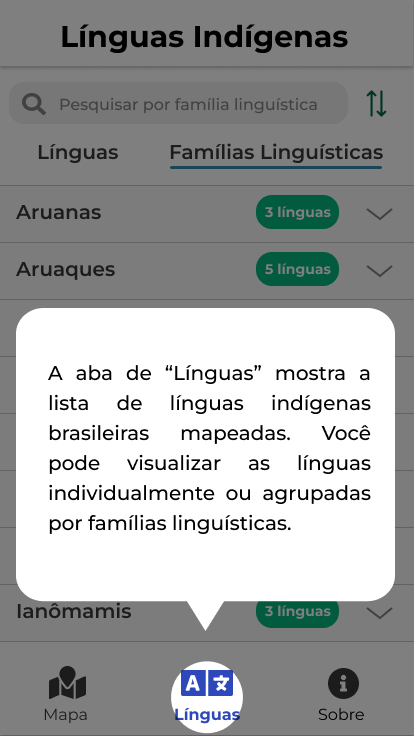
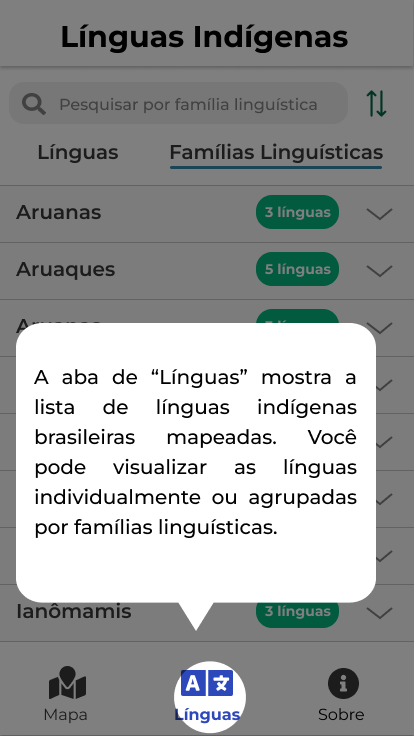
Link onboarding at settings

diff --git a/project/src/components/OnBoarding/index.jsx b/project/src/components/OnBoarding/index.jsx
@@ -1,20 +1,36 @@
 import React, { useRef, useState, useEffect } from 'react'
-import { View, Text, StatusBar, TouchableOpacity, FlatList, Dimensions, useColorScheme } from 'react-native'
+import { View, Text, StatusBar, TouchableOpacity, FlatList, Dimensions, useColorScheme, Image } from 'react-native'
 import { SafeAreaView } from 'react-native-safe-area-context';
 import AntDesignIcons from 'react-native-vector-icons/AntDesign';
+import { stepZero, stepOne, stepTwo, stepThree, stepFour } from '../../assets/images';
 
-export function OnBoarding({ data, buttonBackgroundColor = '', dotBackgroundColor = '', onFinish, buttonIconColor = '' }) {
+export function OnBoarding({ buttonBackgroundColor = '', dotBackgroundColor = '', onFinish, buttonIconColor = '' }) {
+  const data = [
+    {
+      _id: '0',
+      image: <Image source={stepZero} />
+    },
+    {
+      _id: '1',
+      image: <Image source={stepOne} />
+    },
+    {
+      _id: '2',
+      image: <Image source={stepTwo} />
+    },
+    {
+      _id: '3',
+      image: <Image source={stepThree} />
+    },
+    {
+      _id: '4',
+      image: <Image source={stepFour} />
+    },
+  ]
 
   const { width, height } = Dimensions.get('window');
 
   const colorScheme = useColorScheme()
-
-  const COLORS = {
-    primary: buttonBackgroundColor ? buttonBackgroundColor : "red",
-    background: colorScheme == 'dark' ? '#171717' : "#FFFFFF",
-    text: colorScheme == 'dark' ? '#FFFF' : "#171717",
-    dotBgColor: dotBackgroundColor ? dotBackgroundColor : "red"
-  }
 
   const SIZES = {
     base: 10,
@@ -45,17 +61,6 @@ export function OnBoarding({ data, buttonBackgroundColor = '', dotBackgroundColo
     flatlistRef.current.scrollToIndex({
       animated: true,
       index: currentPage + 1
-    })
-  }
-
-  const handleBack = () => {
-    if (currentPage == 0) {
-      return;
-    }
-
-    flatlistRef.current.scrollToIndex({
-      animated: true,
-      index: currentPage - 1
     })
   }
 
@@ -140,11 +145,9 @@ export function OnBoarding({ data, buttonBackgroundColor = '', dotBackgroundColo
                   fontSize: 18,
                   marginLeft: SIZES.base
                 }}>Finalizar</Text>
-                <AntDesignIcons name="right"
-                  style={{ fontSize: 18, color: 'white', opacity: 0.3, marginLeft: SIZES.base }} />
                 <AntDesignIcons
                   name="right"
-                  style={{ fontSize: 25, color: 'white', marginLeft: -15 }}
+                  style={{ fontSize: 25, color: 'white'}}
                 />
               </TouchableOpacity>
             )
@@ -160,14 +163,15 @@ export function OnBoarding({ data, buttonBackgroundColor = '', dotBackgroundColo
       <View style={{
         width: SIZES.width,
         flex: 1,
-        alignItems: 'center',
+        alignItems: 'flex-start',
         justifyContent: 'center',
         height: '100%'
       }}
       >
         <View style={{
           alignItems: 'center',
-          marginVertical: SIZES.base * 2
+          // width: '100%'
+          // marginVertical: SIZES.base * 2
         }}>
           {item.image}
         </View>

diff --git a/project/src/screens/SettingsScreen/index.jsx b/project/src/screens/SettingsScreen/index.jsx
@@ -1,30 +1,50 @@
-import React from 'react';
-import { InfoCard } from '../../components'
+import React, { useState } from 'react';
+import { InfoCard } from '../../components';
 import { SafeAreaView } from 'react-native-safe-area-context';
 import { View } from 'react-native';
 import styles from './styles';
 import { contributionImage, guideImage, databaseImage, contributorImage } from '../../assets/images';
+import { NativeModules } from "react-native";
 
 export function SettingsScreen() {
+  const [showApp, setShowApp] = useState(false);
+  const [showOnBoarding, setShowOnBoarding] = useState(false);
+
+  if (showOnBoarding && !showApp) {
+    NativeModules.DevSettings.reload();
+  }
+
+  const handleGuidePress = () => {
+    setShowOnBoarding(true);
+  };
+
   return (
     <SafeAreaView>
       <View style={styles.container}>
-        <InfoCard styles={styles.infoCard}
+        <InfoCard
+          styles={styles.infoCard}
           image={contributionImage}
+          externalUrl="https://www.decadalinguasindigenasbr.com/materiais/"
+          text="Contribua com nossa base de dados"
+        />
+        <InfoCard
+          styles={styles.infoCard}
+          image={guideImage}
+          text="Guia de Uso Passo a Passo"
+          onPressCallback={handleGuidePress}
+        />
+        <InfoCard
+          styles={styles.infoCard}
+          image={databaseImage}
           navigate="Words"
-          text="Contribua com nossa base de dados"></InfoCard>
-        <InfoCard styles={styles.infoCard}
-        image={guideImage}
-        navigate="Words"
-        text="Guia de Uso Passo a Passo"></InfoCard>
-        <InfoCard styles={styles.infoCard}
-        image={databaseImage}
-        navigate="Words"
-        text="Base de Dados Utilizadas"></InfoCard>
-        <InfoCard styles={styles.infoCard}
-        image={contributorImage}
-        navigate="Words"
-        text="Contribuidores"></InfoCard>
+          text="Base de Dados Utilizadas"
+        />
+        <InfoCard
+          styles={styles.infoCard}
+          image={contributorImage}
+          navigate="Words"
+          text="Contribuidores"
+        />
       </View>
     </SafeAreaView>
   );

diff --git a/project/App.js b/project/App.js
@@ -1,37 +1,19 @@
 import React, { useState } from 'react';
-import { Image } from 'react-native';
 import { SafeAreaProvider } from 'react-native-safe-area-context';
 import { NavigationContainer } from '@react-navigation/native';
 import AppLoading from 'expo-app-loading';
 import { BottomNavigation } from './src/navigation';
 import { LocationContextProvider } from './src/contexts';
 import { useCustomFonts } from './src/helpers';
-import OnboardingScreen from 'simple-react-native-onboarding';
 import { OnBoarding } from './src/components'
-import { stepOne, stepTwo, stepThree, stepFour } from './src/assets/images';
+import { LogBox } from 'react-native';
 
-const data = [
-  {
-    _id: '1',
-    image: <Image source={stepOne} />
-  },
-  {
-    _id: '2',
-    image: <Image source={stepTwo} />
-  },
-  {
-    _id: '3',
-    image: <Image source={stepThree} />
-  },
-  {
-    _id: '4',
-    image: <Image source={stepFour} />
-  },
-]
+LogBox.ignoreAllLogs();
 
 export default function App() {
   const fontLoaded = useCustomFonts();
   const [showApp, setShowApp] = useState(false);
+  console.disableYellowBox = true;
 
   if (!fontLoaded) {
     return <AppLoading />;
@@ -40,7 +22,6 @@ export default function App() {
   if (!showApp) {
     return (
       <OnBoarding
-        data={data}
         dotBackgroundColor='#016949'
         onFinish={
           () => {

diff --git a/project/src/components/CardInfo/index.jsx b/project/src/components/CardInfo/index.jsx
@@ -1,16 +1,24 @@
-import React from 'react';
-import { TouchableOpacity, Text, View, Image } from 'react-native';
+import React, { useState } from 'react';
+import { TouchableOpacity, Text, View, Image, Linking } from 'react-native';
 import styles from './styles';
 import { useNavigation } from '@react-navigation/native';
 
-export function InfoCard({ navigate, image, text }) {
+export function InfoCard({ navigate, image, text, externalUrl, onPressCallback }) {
   const navigation = useNavigation();
+  
+  const handlePress = () => {
+    if (externalUrl) {
+      Linking.openURL(externalUrl);
+    } if (navigate) {
+      navigation.navigate(navigate);
+    }
+    onPressCallback();
+  };
+
   return (
     <TouchableOpacity
       style={styles.button}
-      onPress={() => {
-        navigation.navigate(navigate);
-      }}
+      onPress={handlePress}
     >
       <View style={styles.flexview}>
         <Text style={styles.text}>{text}</Text>

diff --git a/project/src/assets/images/index.js b/project/src/assets/images/index.js
@@ -4,6 +4,7 @@ export { default as contributionImage } from './equality.png';
 export { default as guideImage } from './process.png';
 export { default as databaseImage } from './query.png';
 export { default as contributorImage } from './teamwork.png';
+export { default as stepZero } from './passo0.png';
 export { default as stepOne } from './passo1.png';
 export { default as stepTwo } from './passo2.png';
 export { default as stepThree } from './passo3.png';
